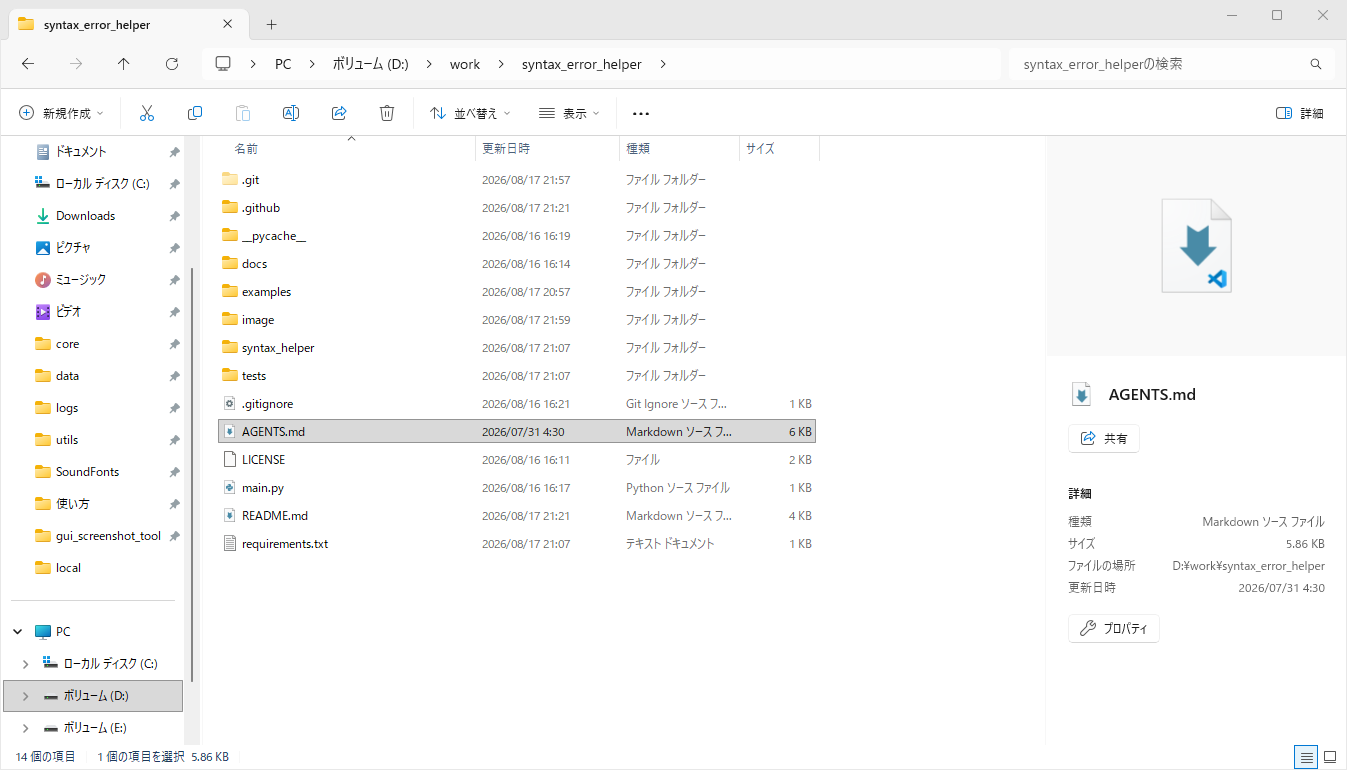
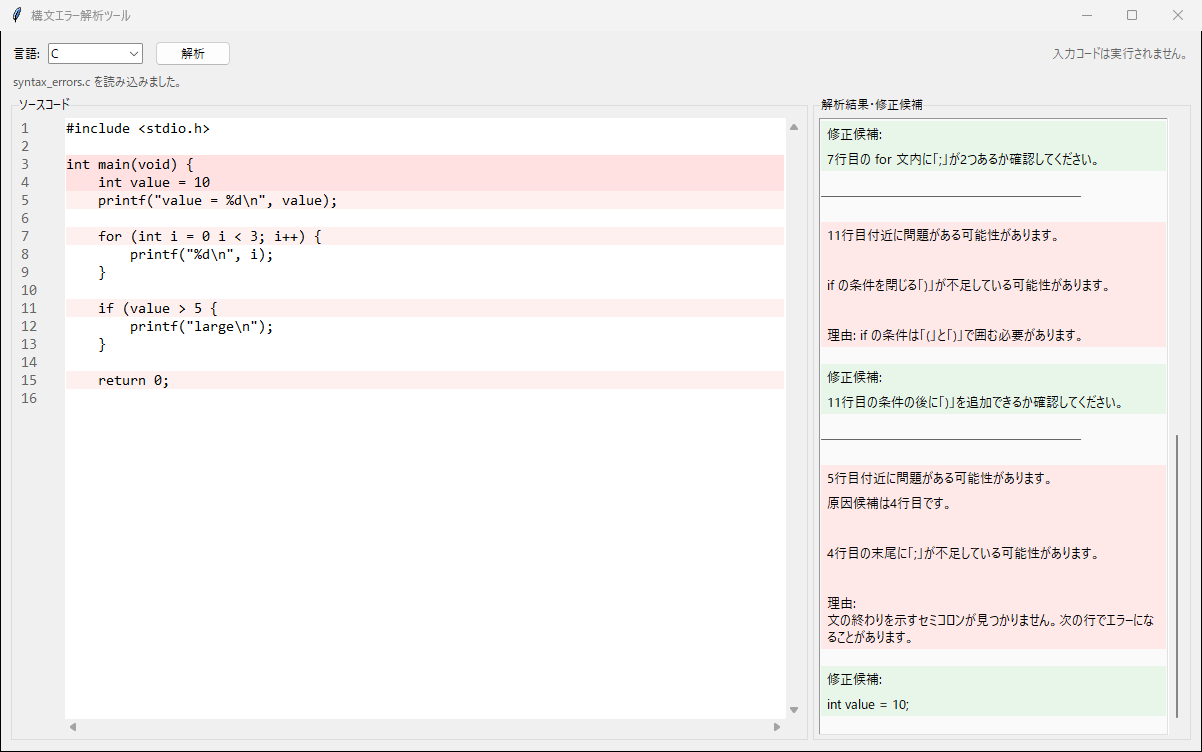
doc: 更新デモ画像に合わせて説明を修正

diff --git a/使い方.md b/使い方.md
@@ -4,6 +4,10 @@
 
 本ツールは、プログラミング初心者がC、Java、Python、JSONの構文エラーについて、問題が起きた場所、原因になった可能性が高い場所、修正候補を日本語で確認するためのデスクトップツールです。
 
+![構文エラー解析ツールの画面](image/01_demo.png)
+
+画面左側にソースコード、右側に解析結果と修正候補が表示されます。左右の境界をドラッグすると、それぞれの表示幅を変更できます。
+
 ## 1. 動作環境
 
 - Windows、macOS、Linux
@@ -66,7 +70,7 @@ python main.py
 1. 画面上部の「言語」からC、Java、Python、JSONのいずれかを選択します。
 2. 「ソースコード」欄へコードを入力または貼り付けます。
 3. 「解析」ボタンを押します。
-4. 画面下部の「解析結果・修正候補」を確認します。
+4. 画面右側の「解析結果・修正候補」を確認します。
 
 ### ファイルを読み込む場合
 
@@ -89,10 +93,16 @@ python main.py
 
 ## 7. 解析結果の見方
 
-- 薄い赤色の行：構文解析で問題が見つかった付近です。
-- 少し濃い赤色の行：実際の原因である可能性が高い行です。
-- 原因：なぜ構文エラーになった可能性があるかを表示します。
-- 修正候補：追加や書き換えを検討できる内容を表示します。
+### 左側のソースコード
+
+- 薄い赤系の行：構文解析で問題が見つかった行、または実際の原因である可能性が高い行です。
+- 行番号：解析結果に表示された問題位置や原因候補位置と対応しています。
+
+### 右側の解析結果・修正候補
+
+- 薄い赤色の部分：問題が見つかった位置、原因候補の位置、問題の内容、理由を表示します。
+- 薄い緑色の部分：追加や書き換えを検討できる修正候補を表示します。
+- 区切り線：複数のエラー候補がある場合に、候補同士を分けて表示します。
 
 例えば、前の行にセミコロンがないため次の行でエラーになった場合は、次の行だけでなく、セミコロンが不足している可能性がある前の行も原因候補として表示します。
 

diff --git a/README.md b/README.md
@@ -6,6 +6,8 @@
 
 プログラミング初心者が構文エラーの原因候補と直し方を、日本語で確認するためのデスクトップGUIツールです。パーサーが停止した行だけでなく、未閉鎖の括弧や直前行のセミコロン不足など、**実際の原因になった可能性が高い行**を推定して表示します。
 
+画面左側でソースコードを編集し、右側で解析結果と修正候補を同時に確認できます。解析内容は薄い赤、修正候補は薄い緑で表示されるため、原因と直し方を見分けやすい構成です。左右の境界はドラッグして表示幅を変更できます。
+
 ## 対応言語
 
 - C
@@ -23,7 +25,7 @@
 - Python: インデント、コロン、各種括弧、文字列、条件式の `=` と `==`
 - JSON: 各種括弧、文字列、カンマ、コロン、引用符で囲まれていないキー
 
-複数の候補がある場合はすべて表示します。エラー発生行は薄い赤、原因候補行は少し濃い薄赤でハイライトします。
+複数の候補がある場合はすべて表示します。左側のエディタでは、エラー発生行と原因候補行を薄い赤系の背景でハイライトします。右側では、問題位置・原因・理由を薄い赤、修正候補を薄い緑の背景で表示します。
 
 ## 必要環境
 
@@ -48,7 +50,7 @@ python main.py
 1. 言語を選択します。
 2. ソースコードを入力するか、対応ファイルをエディタへドラッグ＆ドロップします。
 3. 「解析」を押します。
-4. ハイライトされた行と、日本語の原因・理由・修正候補を確認します。
+4. 左側のハイライト行と、右側の日本語による原因・理由・修正候補を確認します。
 
 ドロップできる拡張子は `.c`、`.h`、`.java`、`.py`、`.json` です。ドロップ時は拡張子に合わせて言語が自動選択されます。UTF-8とCP932、2 MB以下のファイルに対応します。複数ファイルを同時にドロップした場合は最初の1ファイルを読み込みます。
 
